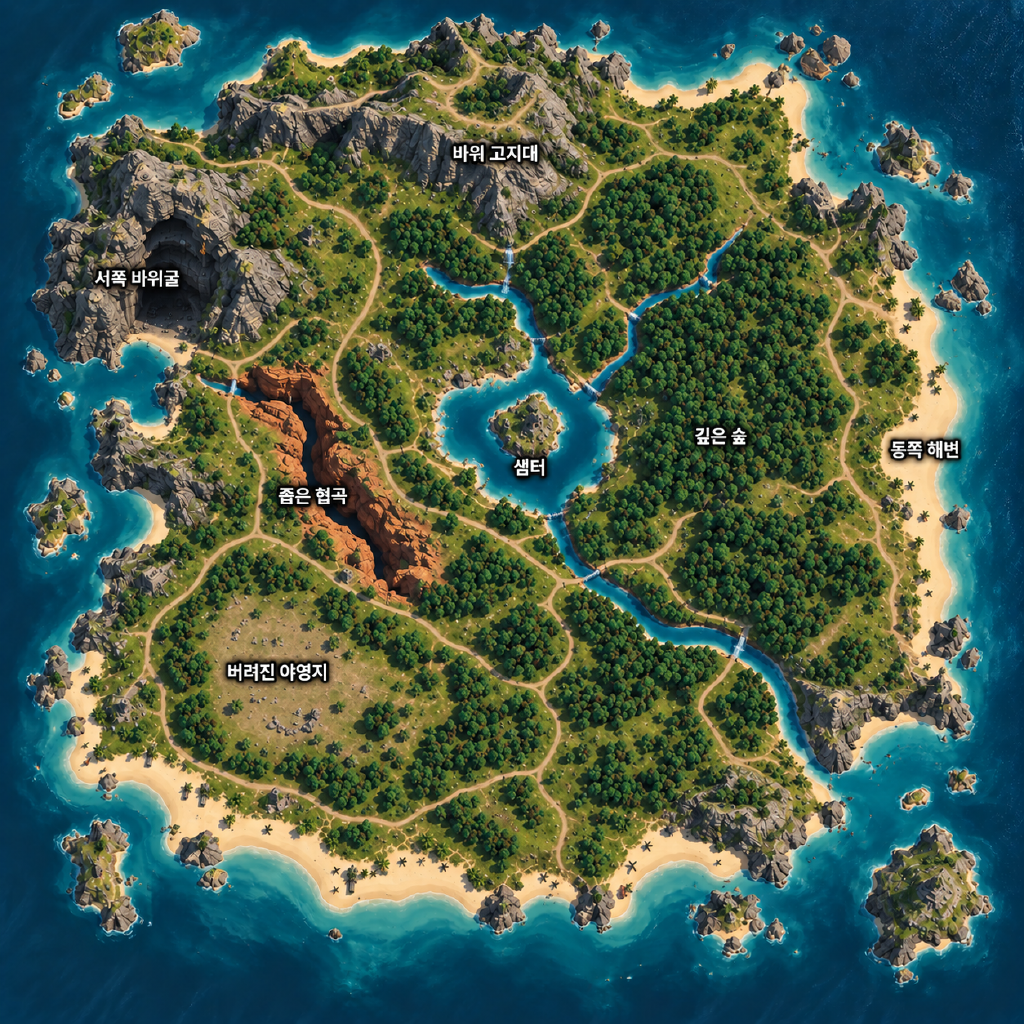
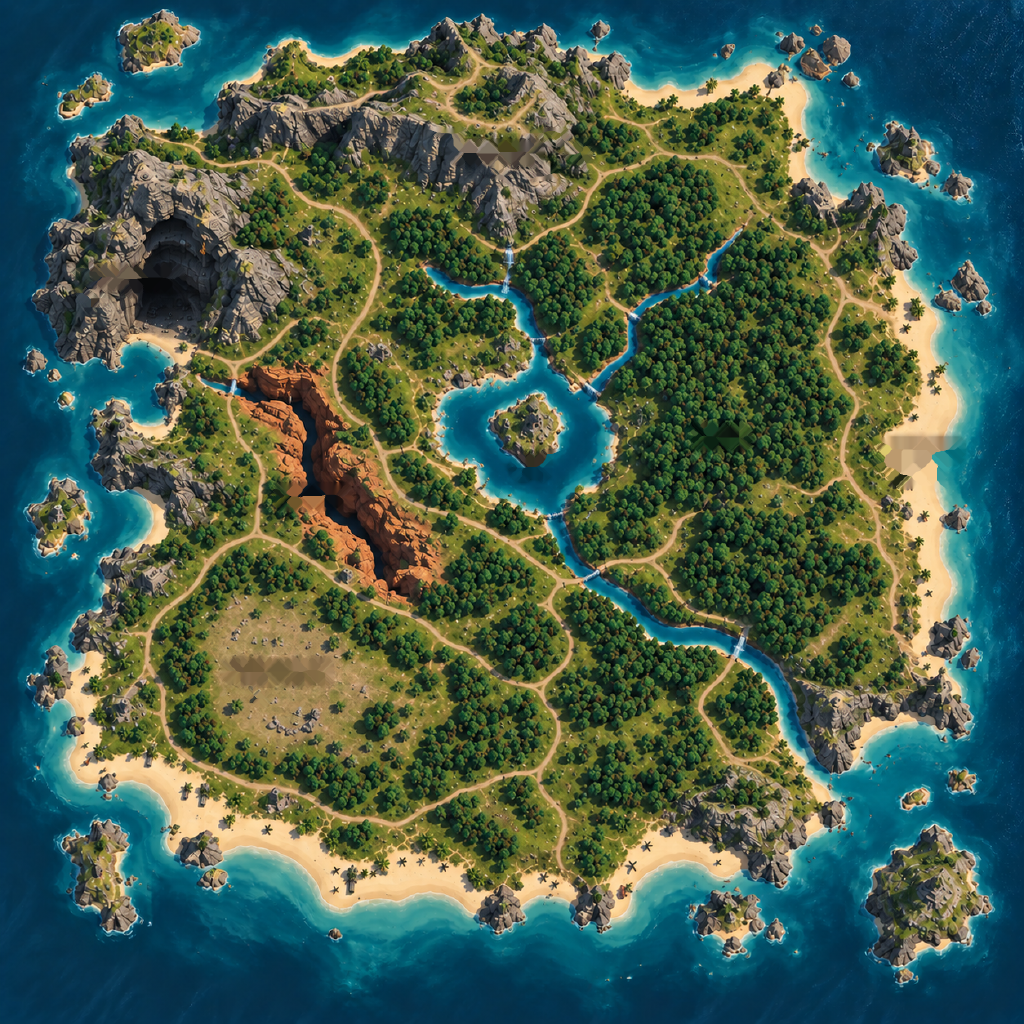
Read the island at a glance, read the people up close
The place names were painted into the picture, which meant they always won: at any zoom the
artwork said 좁은 협곡 in letters taller than the person you were following. The map now
ships with its lettering rubbed out — tool/build-island-mask.mjs marks the glyphs and fills
them in from the terrain around them — and the app draws the names itself. They are there
when you are reading the island and gone the moment you close in on somebody, with crowded
names thinned out and a closing zone labelled once rather than twice.

What is left up close is the cast: bigger markers, a name tag on every visible person with
a plate behind it so it survives whatever it lies on, the followed person ringed and in red,
and the artwork fading back a little so none of it has to compete.

Pressing the zoom buttons also actually zooms now — the map was capturing the pointer for a
drag before the button could take the click.

diff --git a/src/world/components/GeoMap.tsx b/src/world/components/GeoMap.tsx
@@ -107,12 +107,28 @@ export function GeoMap({ state, selectedAgentId, onSelectAgent }: { state: World
   const agents = state.agents.filter(a => a.publicState.coord)
   const living = agents.filter(a => a.publicState.status !== 'deceased')
   const selected = agents.find(a => a.id === selectedAgentId)
+  // `unit` is a fixed fraction of the visible width, so anything sized in units keeps the same
+  // size on screen at every zoom level. Closing in dims the painted map — its place names are part
+  // of the picture and cannot be switched off — and grows the markers, so the people win the eye.
   const h = view.w * H / W, unit = view.w / 400
+  const closeness = Math.min(1, Math.max(0, (1 - view.w / W) * 1.6))
+  const close = view.w < W * 0.62
+  const mark = close ? 1.5 : 1
 
   const zones = state.engine?.zones ?? []
   const fighting = new Set(state.engine?.fighting ?? [])
   const supplies = (state.engine?.objects ?? []).filter(o => o.coord && o.location.kind === 'place' && o.quantity > 0 && o.condition !== 'destroyed')
   const zoneAreas = useMemo(() => zones.map(z => ({ ...z, rects: regionCells(geo, z.placeId) })), [geo, zones.map(z => `${z.placeId}:${z.closed}`).join()])
+  // Names close enough to collide at this zoom: keep the first, drop the crowd behind it. A place
+  // the island is closing already shows its name with a countdown, so it is not labelled twice.
+  const spacedLabels = geo.regions.filter((r, i) => {
+    if (zones.some(z => z.placeId === r.placeId)) return false
+    const here = r.label ?? r.center
+    return !geo.regions.slice(0, i).some(other => {
+      const there = other.label ?? other.center
+      return Math.hypot(here.x - there.x, here.y - there.y) < view.w * 0.17
+    })
+  })
 
   // Markers follow the engine; the glide only fills the gap between two reported positions.
   const positions = useGlidingPositions(living.map(a => ({ id: a.id, coord: a.publicState.coord! })))
@@ -160,7 +176,9 @@ export function GeoMap({ state, selectedAgentId, onSelectAgent }: { state: World
   }, [W, H])
   function startPan(down: ReactPointerEvent<HTMLDivElement>) {
     const el = box.current
-    if (!el || (down.target instanceof Element && down.target.closest('.geo-agent'))) return
+    // Dragging the map must not start on something you meant to press: capturing the pointer here
+    // would swallow the button's own click.
+    if (!el || (down.target instanceof Element && down.target.closest('.geo-agent, .geo-map-controls'))) return
     const r = el.getBoundingClientRect(), start = { ...view }, sx = down.clientX, sy = down.clientY
     el.setPointerCapture(down.pointerId)
     const onMove = (m: PointerEvent) => setView(clampView({ w: start.w, x: start.x - (m.clientX - sx) / r.width * start.w, y: start.y - (m.clientY - sy) / r.height * start.w * H / W }))
@@ -190,6 +208,8 @@ export function GeoMap({ state, selectedAgentId, onSelectAgent }: { state: World
         {geo.image
           ? <image href={geo.image} x={0} y={0} width={W} height={H} preserveAspectRatio="none" aria-hidden="true" />
           : <g aria-hidden="true">{runs.map((r, i) => <rect key={i} x={r.x} y={r.y} width={r.w + 0.5} height={geo.cellMeters + 0.5} className={`geo-t geo-t-${r.terrain}`} />)}</g>}
+        {/* The further in you look, the further back the artwork steps — including its own labels. */}
+        {geo.image && closeness > 0 && <rect className="geo-scrim" x={0} y={0} width={W} height={H} fillOpacity={closeness * 0.34} aria-hidden="true" />}
 
         {zoneAreas.map(z => <g key={z.placeId} className={`geo-zone${z.closed ? ' is-closed' : ' is-closing'}`} aria-hidden="true">
           {z.rects.map((r, i) => <rect key={i} x={r.x} y={r.y} width={r.w} height={geo.cellMeters} />)}
@@ -199,7 +219,9 @@ export function GeoMap({ state, selectedAgentId, onSelectAgent }: { state: World
           </text>
         </g>)}
 
-        {!geo.image && geo.regions.filter(r => r.kind === 'TERRAIN').map(r => <text key={r.placeId} x={r.center.x} y={r.center.y} className="geo-region-label" fontSize={unit * 11} textAnchor="middle">{placeName(r.placeId)}</text>)}
+        {!close && spacedLabels.map(r => <text key={r.placeId} x={r.label?.x ?? r.center.x} y={r.label?.y ?? r.center.y}
+          className={`geo-region-label${r.kind === 'POI' ? ' is-poi' : ''}`} fontSize={unit * (r.kind === 'POI' ? 10 : 12)}
+          strokeWidth={unit * 1.1} textAnchor="middle">{placeName(r.placeId)}</text>)}
 
         {supplies.map(o => <g key={o.id} className="geo-supply">
           <title>{`${o.name} (${SUPPLY_LABEL[o.kind] ?? '보급품'})`}</title>
@@ -226,16 +248,26 @@ export function GeoMap({ state, selectedAgentId, onSelectAgent }: { state: World
         {agents.map(a => {
           const p = at(a), face = heading(a)
           const angle = face ? Math.atan2(face.y - p.y, face.x - p.x) * 180 / Math.PI : null
-          return <g key={a.id} className={`geo-agent${a.id === selectedAgentId ? ' is-selected' : ''}${a.publicState.status === 'deceased' ? ' is-dead' : ''}${fighting.has(a.id) ? ' is-fighting' : ''}`}
-            transform={`translate(${p.x} ${p.y})`} role="button" tabIndex={0} aria-label={a.name} aria-pressed={a.id === selectedAgentId}
-            onClick={() => onSelectAgent(a.id === selectedAgentId ? null : a.id)} onKeyDown={e => { if (e.key === 'Enter' || e.key === ' ') { e.preventDefault(); onSelectAgent(a.id === selectedAgentId ? null : a.id) } }}>
+          const picked = a.id === selectedAgentId
+          const dot = unit * (picked ? 5.4 : 4.4) * mark
+          // A name tag only earns its space up close, or when it is the person being followed.
+          const named = picked || close
+          const font = unit * (picked ? 13 : 11) * mark
+          const tag = { w: a.name.length * font * 1.06 + font * 0.9, h: font * 1.5, top: dot + unit * 2 * mark }
+          return <g key={a.id} className={`geo-agent${picked ? ' is-selected' : ''}${a.publicState.status === 'deceased' ? ' is-dead' : ''}${fighting.has(a.id) ? ' is-fighting' : ''}`}
+            transform={`translate(${p.x} ${p.y})`} role="button" tabIndex={0} aria-label={a.name} aria-pressed={picked}
+            onClick={() => onSelectAgent(picked ? null : a.id)} onKeyDown={e => { if (e.key === 'Enter' || e.key === ' ') { e.preventDefault(); onSelectAgent(picked ? null : a.id) } }}>
             <title>{`${a.name}${fighting.has(a.id) ? ' · 교전 중' : ''}`}</title>
-            <circle r={unit * 8} className="geo-agent-target" />
-            {fighting.has(a.id) && a.publicState.status !== 'deceased' && <circle r={unit * 6} className="geo-agent-fight" strokeWidth={unit * 0.9} />}
+            <circle r={unit * 9 * mark} className="geo-agent-target" />
+            {picked && <circle r={dot * 2.1} className="geo-agent-halo" strokeWidth={unit * 1.1 * mark} />}
+            {fighting.has(a.id) && a.publicState.status !== 'deceased' && <circle r={dot * 1.5} className="geo-agent-fight" strokeWidth={unit * 1 * mark} />}
             {angle !== null && a.publicState.status !== 'deceased' &&
-              <polygon className="geo-agent-heading" points={`${unit * 4},0 ${unit * 9},${unit * 2.6} ${unit * 9},${-unit * 2.6}`} transform={`rotate(${angle})`} />}
-            <circle r={unit * 4.2} className="geo-agent-dot" strokeWidth={unit * 1.3} />
-            {(a.id === selectedAgentId || view.w < W / 2) && <text y={unit * 13} fontSize={unit * 10} textAnchor="middle" className="geo-agent-label">{a.name}</text>}
+              <polygon className="geo-agent-heading" points={`${dot},0 ${dot * 2.2},${dot * 0.62} ${dot * 2.2},${-dot * 0.62}`} transform={`rotate(${angle})`} />}
+            <circle r={dot} className="geo-agent-dot" strokeWidth={unit * 1.4 * mark} />
+            {named && <g className="geo-agent-name">
+              <rect x={-tag.w / 2} y={tag.top} width={tag.w} height={tag.h} rx={tag.h * 0.35} strokeWidth={unit * 0.5} />
+              <text y={tag.top + font * 1.1} fontSize={font} textAnchor="middle" strokeWidth={unit * 0.9}>{a.name}</text>
+            </g>}
           </g>
         })}
       </svg>

diff --git a/tests/world-island-minimap.spec.ts b/tests/world-island-minimap.spec.ts
@@ -1,19 +1,21 @@
 import { test, expect } from '@playwright/test'
 import { ISLAND_MASK } from '../server/world/geo/islandMask'
+import { ISLAND_PLACES } from '../server/world/geo/islandMap'
 
 // The minimap draws the painted island and nothing else: markers sit at simulation coordinates,
 // and when the engine reports a new coordinate the marker walks there.
 test('the island minimap draws the painted map and keeps markers on simulation coordinates', async ({ page, request }, info) => {
   const current = await (await request.get('/api/world/current')).json()
   const world = current.worldState
-  const places = ['동쪽 해변', '깊은 숲', '샘터'].map((name, i) => ({
-    ...world.places[0], id: `island-${i}`, name, description: name, currentAgentIds: [], resources: [], isDiscovered: true,
+  // The island as it really is: every place the artwork labels, where the artwork labels it.
+  const places = ISLAND_PLACES.map((p, i) => ({
+    ...world.places[0], id: `island-${i}`, name: p.name, description: p.name, currentAgentIds: [], resources: [], isDiscovered: true,
   }))
   world.places = places
   world.agents = world.agents.slice(0, 2)
   const [walker, other] = world.agents
-  walker.publicState.locationId = places[1].id
-  other.publicState.locationId = places[0].id
+  walker.publicState.locationId = places[5].id
+  other.publicState.locationId = places[6].id
   walker.publicState.coord = { x: 1400, y: 900 }
   other.publicState.coord = { x: 1800, y: 900 }
   // The same geography the server builds: the generated mask, the painted picture, real regions.
@@ -25,12 +27,8 @@ test('the island minimap draws the painted map and keeps markers on simulation c
       version: 1, widthMeters: ISLAND_MASK.widthMeters, heightMeters: ISLAND_MASK.heightMeters,
       cellMeters: ISLAND_MASK.cellMeters, cols: ISLAND_MASK.cols, rows: ISLAND_MASK.rows,
       cells: ISLAND_MASK.cells, image: ISLAND_MASK.image, minute: 600,
-      cellRegion: Array.from({ length: ISLAND_MASK.cols * ISLAND_MASK.rows }, (_, i) => i % 3),
-      regions: [
-        { placeId: places[0].id, kind: 'TERRAIN', terrain: 'BEACH', center: { x: 1831, y: 904 }, radius: 320, source: 'designer' },
-        { placeId: places[1].id, kind: 'TERRAIN', terrain: 'FOREST', center: { x: 1435, y: 871 }, radius: 460, source: 'designer' },
-        { placeId: places[2].id, kind: 'POI', terrain: 'GRASS', center: { x: 1047, y: 928 }, radius: 90, source: 'designer' },
-      ],
+      cellRegion: Array.from({ length: ISLAND_MASK.cols * ISLAND_MASK.rows }, (_, i) => i % places.length),
+      regions: ISLAND_PLACES.map((p, i) => ({ placeId: places[i].id, kind: p.kind, terrain: p.terrain, center: p.seed, label: p.seed, radius: p.radius, source: 'designer' })),
     },
     objects: [{ id: 'drop-1', name: '반자동 소총', kind: 'tool', quantity: 1, condition: 'intact', location: { kind: 'place', id: places[0].id }, coord: { x: 1700, y: 1000 } }],
     zones: [{ placeId: places[0].id, effectiveMinute: 1320, closed: false }],
@@ -74,9 +72,42 @@ test('the island minimap draws the painted map and keeps markers on simulation c
   // It really passed through the middle: a trail of where it has been is drawn behind it.
   await expect(page.locator('.geo-trail')).toHaveCount(1)
 
+  // Zoomed out, the island reads as a map: place names on, no scrim, no character name tags.
+  await expect(page.locator('.geo-scrim')).toHaveCount(0)
+  await expect(page.locator('.geo-agent-name')).toHaveCount(0)
+  await expect(page.locator('.geo-region-label').first()).toBeVisible()
+  expect(await page.locator('.geo-region-label').count()).toBeGreaterThanOrEqual(5)
+  await expect(page.locator('.geo-region-label').first()).toBeVisible()
+  await page.locator('.geo-map').screenshot({ path: `data/logs/island-minimap-wide-${info.project.name}.png` })
+  const dotAt = async () => Number(await page.locator('.geo-agent .geo-agent-dot').first().getAttribute('r'))
+  const viewWidth = async () => Number((await page.locator('.geo-map svg').getAttribute('viewBox'))!.split(' ')[2])
+  const wide = await viewWidth(), wideDot = await dotAt()
+
+  // Zooming in: the painted map (and the place names painted into it) steps back, and every
+  // person on screen gets a readable name tag and a bigger marker.
+  for (let i = 0; i < 4; i++) await page.getByRole('button', { name: '확대' }).click()
+  await expect.poll(viewWidth).toBeLessThan(wide * 0.62)
+  await expect(page.locator('.geo-scrim')).toHaveCount(1)
+  await expect(page.locator('.geo-agent-name')).toHaveCount(2)
+  // The place names step aside entirely — they are drawn by the app, not baked into the picture.
+  await expect(page.locator('.geo-region-label')).toHaveCount(0)
+  // Marker size is measured in map metres, so a bigger number at a smaller view means a bigger
+  // marker on screen relative to the map — the whole point of the zoom.
+  expect(await dotAt() / await viewWidth()).toBeGreaterThan(wideDot / wide * 1.4)
+
   // Engagement shows on the map as soon as the engine reports it.
   world.engine.fighting = [walker.id, other.id]
   await page.evaluate(payload => window.dispatchEvent(new CustomEvent('test-frame', { detail: { type: 'worldState', payload } })), world)
   await expect(page.locator('.geo-agent.is-fighting')).toHaveCount(2)
+  // The person you are following is marked out from the rest: a ring, a louder tag, bigger type.
+  await page.getByRole('button', { name: '전체', exact: true }).click()
+  await marker.click()
+  await expect(page.locator('.geo-agent.is-selected')).toHaveCount(1)
+  await expect(page.locator('.geo-agent.is-selected .geo-agent-halo')).toHaveCount(1)
+  await expect(page.locator('.geo-agent-name')).toHaveCount(1, { timeout: 2000 })
+  const pickedDot = Number(await page.locator('.geo-agent.is-selected .geo-agent-dot').getAttribute('r'))
+  const plainDot = Number(await page.locator('.geo-agent:not(.is-selected) .geo-agent-dot').first().getAttribute('r'))
+  expect(pickedDot).toBeGreaterThan(plainDot)
+  await expect(page.locator('.geo-agent-info')).toContainText(walker.name)
   await page.locator('.geo-map').screenshot({ path: `data/logs/island-minimap-${info.project.name}.png` })
 })

diff --git a/src/styles.css b/src/styles.css
@@ -1134,7 +1134,11 @@ body:has(.observatory), body:has(.world-welcome), body:has(.world-shell), body:h
 .geo-map-controls button { min-width: 28px; height: 26px; padding: 0 7px; border-radius: 6px; border: 1px solid #7c9b8a66; background: #0d1a22cc; color: #d8e6dc; font-size: 12px; cursor: pointer; }
 .geo-t-GRASS { fill: #5d7a4c; } .geo-t-FOREST { fill: #2f5234; } .geo-t-BEACH { fill: #c9b27c; } .geo-t-ROCK { fill: #7b7f80; } .geo-t-CANYON { fill: #a4562f; }
 .geo-t-CLIFF { fill: #5b5552; } .geo-t-WATER { fill: #1f4a6b; } .geo-t-RIVER { fill: #2d6c8f; } .geo-t-RUINS { fill: #8a7a66; } .geo-t-URBAN { fill: #6d6f78; }
-.geo-region-label { fill: #eef5ef; fill-opacity: .55; font-weight: 600; pointer-events: none; paint-order: stroke; stroke: #0b161d; stroke-opacity: .5; stroke-width: .4px; }
+/* The map's own typography, drawn by us: present when you are reading the island, gone when you
+   are following a person. Stroke width is set per-render in map metres so it looks the same at
+   every zoom. */
+.geo-region-label { fill: #fdfdf7; font-weight: 700; letter-spacing: .04em; pointer-events: none; paint-order: stroke; stroke: #11191fcc; }
+.geo-region-label.is-poi { fill: #ffeab8; }
 .geo-poi-area { fill: #f3e2a2; fill-opacity: .12; stroke: #f3e2a2; stroke-opacity: .45; stroke-dasharray: 4 3; }
 .geo-poi-mark { fill: #f3e2a2; }
 .geo-poi-label { fill: #fff4cc; pointer-events: none; paint-order: stroke; stroke: #0b161d; stroke-width: 2px; }
@@ -1147,6 +1151,18 @@ body:has(.observatory), body:has(.world-welcome), body:has(.world-shell), body:h
 .geo-supply rect { fill: #ffd98a; stroke: #4a3209; }
 .geo-supply line { stroke: #4a3209; }
 .geo-trail { fill: none; stroke: #f5f7f5; stroke-opacity: .45; stroke-linecap: round; }
+/* Zooming in pushes the painted map (and the place names painted into it) into the background. */
+/* A mid tone, not black: fog flattens the contrast of the white lettering painted into the map,
+   where a dark wash would dim it and the terrain by the same amount and keep it just as readable. */
+.geo-scrim { fill: #3c4a54; pointer-events: none; }
+/* Name tags sit above everything on the map, including the artwork's own lettering. */
+.geo-agent-name { pointer-events: none; }
+.geo-agent-name rect { fill: #0a141ae6; stroke: #ffffff4d; }
+.geo-agent-name text { fill: #fff; font-weight: 700; paint-order: stroke; stroke: #0a141a; }
+.geo-agent.is-selected .geo-agent-name rect { fill: #c9322de6; stroke: #ffd9d9aa; }
+.geo-agent.is-dead .geo-agent-name rect { fill: #11161ac2; stroke: #ffffff2e; }
+.geo-agent.is-dead .geo-agent-name text { fill: #b9c2bb; }
+.geo-agent-halo { fill: none; stroke: #ef5b5b; stroke-opacity: .85; }
 .geo-agent-heading { fill: #f5f7f5; stroke: #0b161d; stroke-width: .6px; }
 .geo-agent.is-selected .geo-agent-heading { fill: #ef5b5b; }
 .geo-agent-fight { fill: none; stroke: #ff6a3d; stroke-dasharray: 3 2; }
@@ -1159,7 +1175,6 @@ body:has(.observatory), body:has(.world-welcome), body:has(.world-shell), body:h
 .geo-agent-dot { fill: #f5f7f5; stroke: #0b161d; }
 .geo-agent.is-selected .geo-agent-dot { fill: #ef5b5b; }
 .geo-agent.is-dead .geo-agent-dot { fill: #555; }
-.geo-agent-label { fill: #fff; font-weight: 700; paint-order: stroke; stroke: #0b161d; stroke-width: 3px; pointer-events: none; }
 .geo-legend-poi { background: #f3e2a2 !important; transform: rotate(45deg); border-radius: 1px !important; }
 .geo-agent-info { display: grid; gap: 4px; margin: 10px 0 0; font-size: 13px; }
 .geo-agent-info > div { display: flex; gap: 10px; }

diff --git a/server/world/geo/geoTypes.ts b/server/world/geo/geoTypes.ts
@@ -18,6 +18,9 @@ export interface GeoRegion {
   radius: number
   // auto = inferred from name/description; designer = set explicitly (future studio field).
   source: 'auto' | 'designer'
+  // Where the name belongs on a painted map. The artwork labelled the place here; `center` may
+  // have been pulled onto walkable ground some way off.
+  label?: GeoPoint
 }
 
 export interface GeoTravel {

diff --git a/server/world/geo/islandMap.ts b/server/world/geo/islandMap.ts
@@ -128,6 +128,7 @@ export function buildIslandGeo(places: Array<Pick<Place, 'id' | 'name'>>, minute
       center: seed,
       radius: design?.radius ?? 200,
       source: 'designer' as const,
+      label: design?.seed,
     }
   })
   // Ground ownership: nearest seed wins, so the labels partition the island with no gaps.
